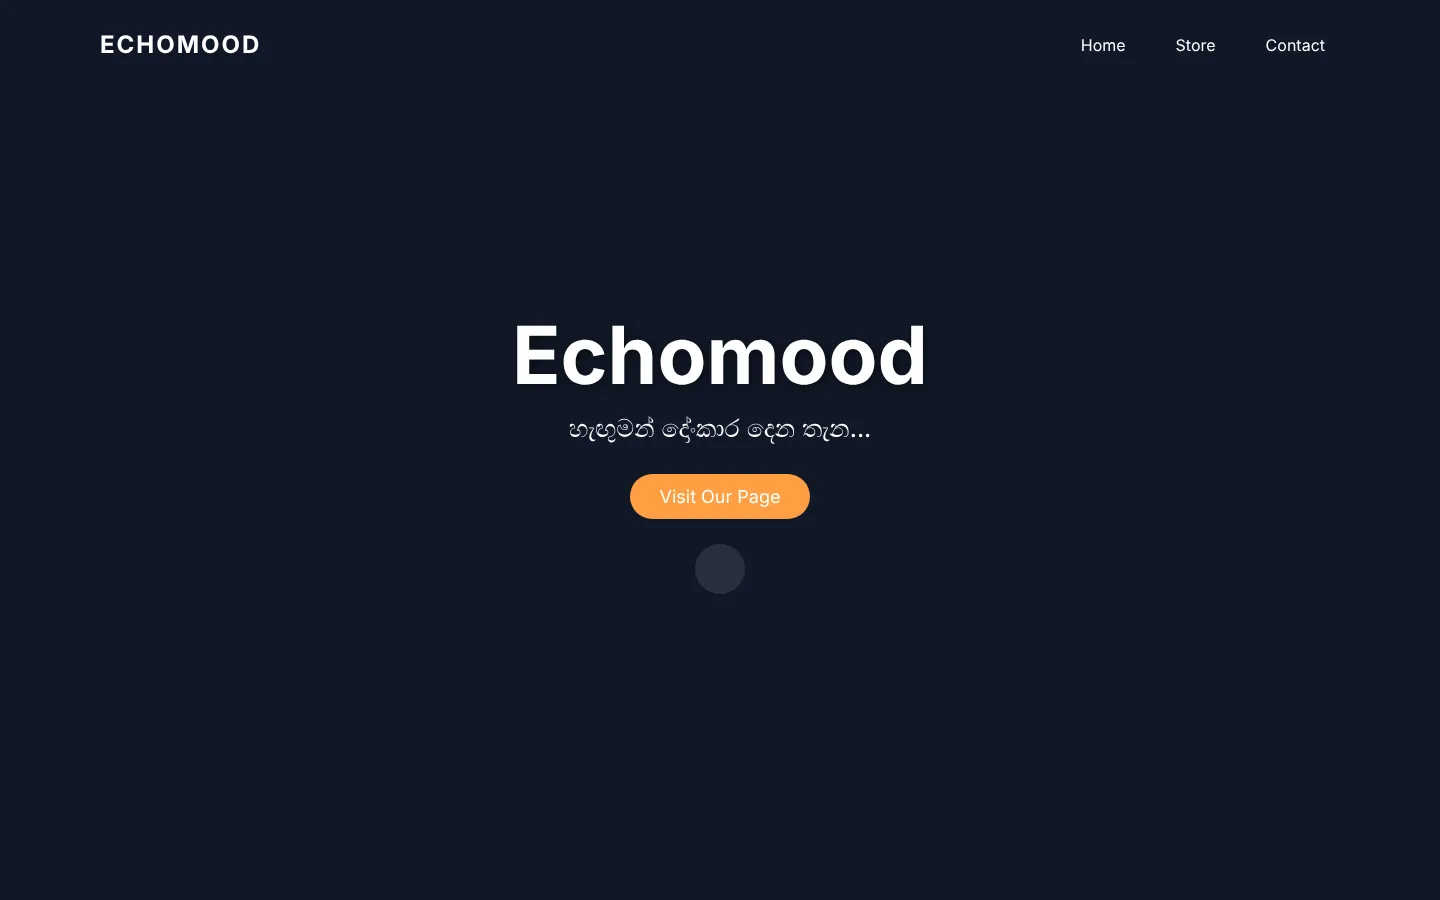
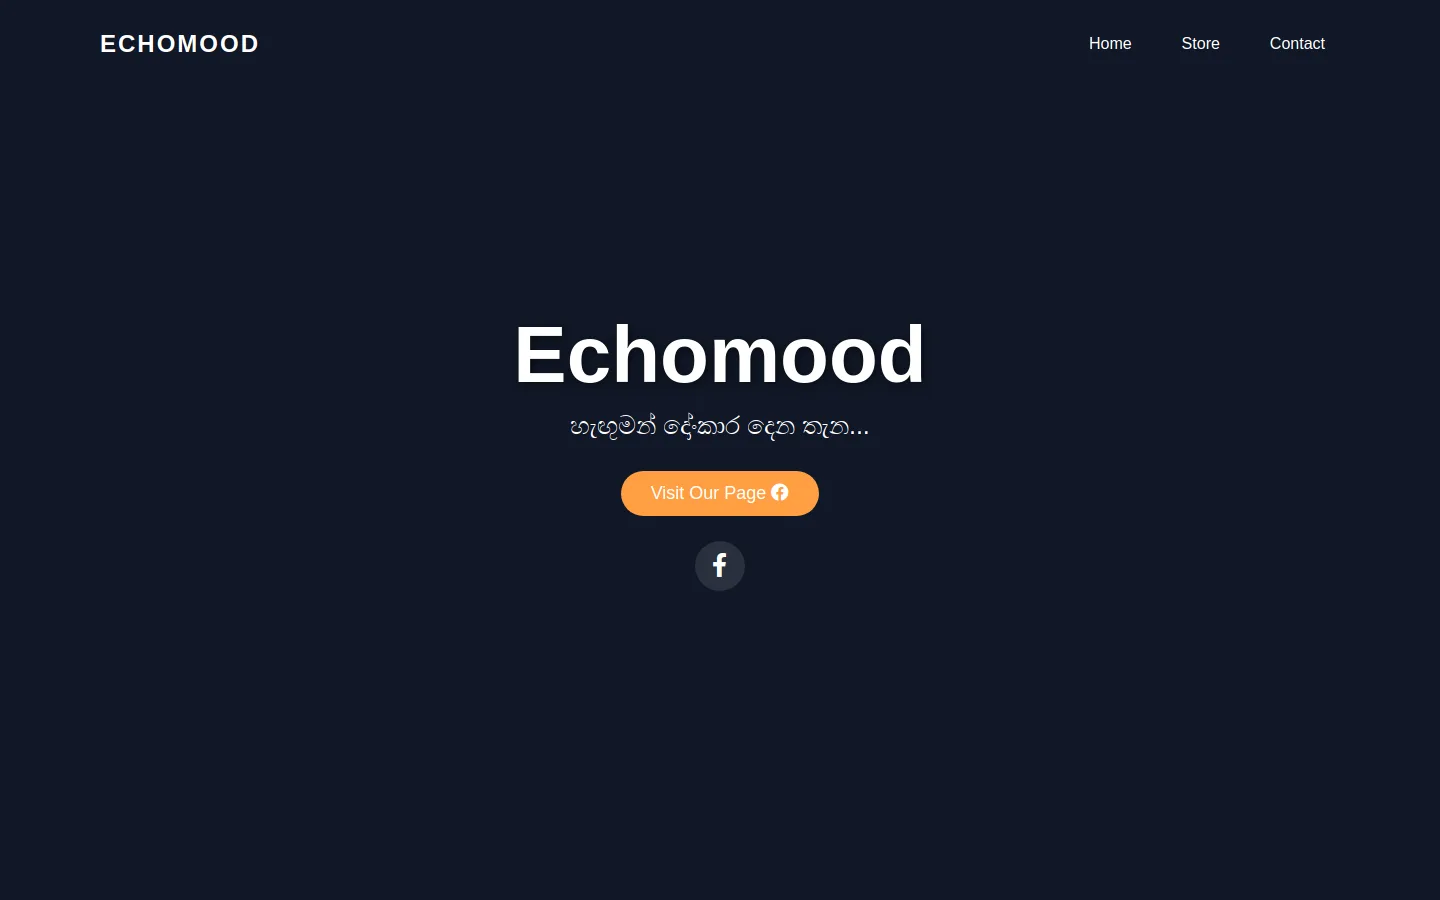
Add real screenshots for Travel Lanka, chatbot, translator, calculator and AgriAid; thumbnails in the project list
Claude-Session: https://claude.ai/code/session_01Jzv9QMHZsQu64D1eeJDQEW

diff --git a/src/data/site.ts b/src/data/site.ts
@@ -223,6 +223,7 @@ export const projects: Project[] = [
     category: 'ai',
     stack: ['Python', 'Streamlit', 'NLTK', 'scikit-learn'],
     repo: gh('FAQ_Chatbot'),
+    images: [{ src: 'images/chatbot.webp', alt: 'FAQ Chatbot answering a question about order tracking' }],
     en: {
       summary: 'Answers frequently asked questions by matching the user’s question to a FAQ list with TF-IDF and cosine similarity. Built for the CodeAlpha AI internship.',
       features: ['NLP preprocessing with NLTK', 'TF-IDF vectors and cosine similarity matching', 'Confidence score and threshold control', 'Streamlit chat interface'],
@@ -238,6 +239,7 @@ export const projects: Project[] = [
     category: 'ai',
     stack: ['Python', 'Gradio', 'deep-translator'],
     repo: gh('AI-Language-Translation-Tool'),
+    images: [{ src: 'images/translator.webp', alt: 'AI Language Translation Tool, English to Sinhala' }],
     en: {
       summary: 'Translates between 15+ languages including Sinhala and Tamil as you type, with a clean interface inspired by Google Translate.',
       features: ['Real-time auto-translation', 'Instant language swap', 'Character counter', 'Deployable to Vercel'],
@@ -251,6 +253,7 @@ export const projects: Project[] = [
     category: 'ai',
     stack: ['Python', 'Flask', 'HTML', 'CSS', 'JavaScript'],
     repo: gh('Python-Calculator'),
+    images: [{ src: 'images/calculator.webp', alt: 'Windows-style calculator showing 125 × 8 = 1000' }],
     en: { summary: 'A web calculator modelled on the Windows standard calculator, with the arithmetic done by a Flask backend. Built for the Codveda Python internship.' },
     si: { summary: 'Windows calculator එකේ ආකෘතියට හදපු, Flask backend එකෙන් ගණනය කරන web calculator එකක්. Codveda Python internship එක සඳහා.' },
   },
@@ -261,6 +264,7 @@ export const projects: Project[] = [
     category: 'web',
     stack: ['HTML', 'CSS', 'JavaScript'],
     repo: gh('tourism-static'),
+    images: [{ src: 'images/travel-home.webp', alt: 'Travel Lanka home page with tour packages' }, { src: 'images/travel-package.webp', alt: 'Sigiriya tour package with booking form' }, { src: 'images/travel-gallery.webp', alt: 'Photo gallery of Sri Lankan destinations' }],
     en: { summary: 'A tour-package site for Sri Lanka with search, package pages, a gallery and a booking form — rebuilt from PHP and MySQL into a static site that deploys for free.' },
     si: { summary: 'Search, package පිටු, gallery සහ booking form සහිත ලංකාවේ සංචාරක පැකේජ වෙබ් අඩවියක් — PHP/MySQL සිට නොමිලේ deploy කළ හැකි static site එකකට.' },
   },
@@ -271,6 +275,7 @@ export const projects: Project[] = [
     category: 'ai',
     stack: ['Python', 'Flask', 'TensorFlow.js', 'Teachable Machine', 'Gemini API', 'SQLite'],
     repo: gh('AgriAid'),
+    images: [{ src: 'images/agriaid-home.webp', alt: 'AgriAid welcome page' }, { src: 'images/agriaid-login.webp', alt: 'AgriAid login with language choice' }],
     en: {
       summary: 'A crop-doctor for Sri Lankan farmers: photograph a sick leaf, get the likely disease and Sinhala treatment advice, then ask follow-up questions to an AI assistant.',
       features: [
